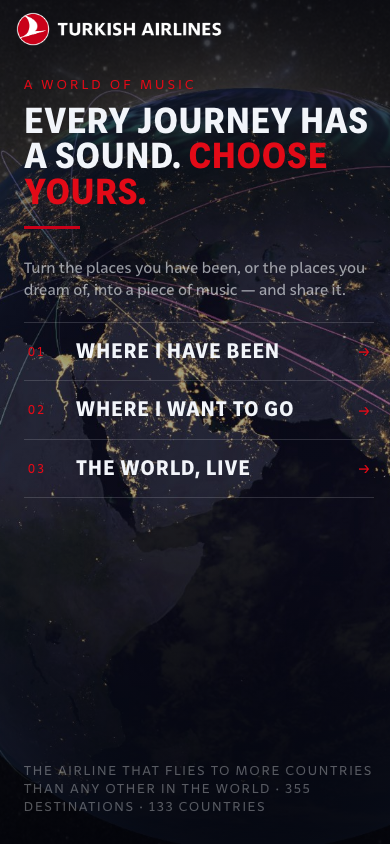
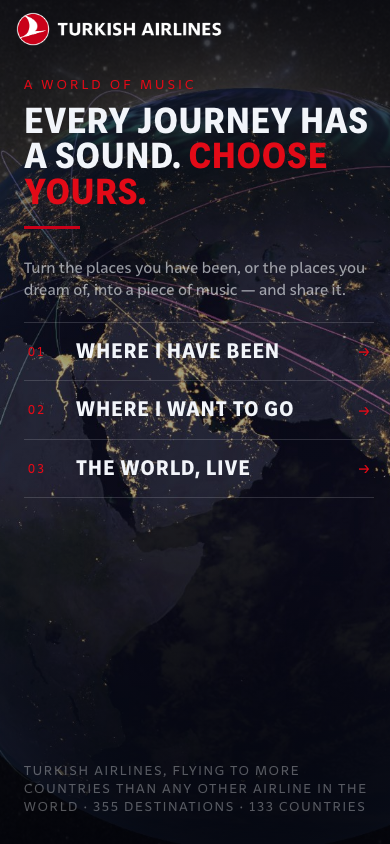
copy: 'Turkish Airlines, flying to more countries than any other airline in the world' in the footer line

Changed region(s): [[0.0615, 0.8934, 0.9538, 0.9858]]

diff --git a/docs/ui-preview/v4-boarding.html b/docs/ui-preview/v4-boarding.html
@@ -115,7 +115,7 @@ h1{margin:0;font-family:var(--display);font-weight:700;letter-spacing:.005em;tex
 <div class="modes"><button class="mode" data-go="origin"><div class="body"><span class="n">01</span><span style="flex:1"><b>Where I have been</b><i>Your journey, composed into one piece</i></span><span class="arr">→</span></div></button>
 <button class="mode" data-go="origin"><div class="body"><span class="n">02</span><span style="flex:1"><b>Where I want to go</b><i>Your wishlist, as the music of a trip yet to come</i></span><span class="arr">→</span></div></button>
 <button class="mode" data-go="origin"><div class="body"><span class="n">03</span><span style="flex:1"><b>The world, live</b><i>Every Turkish Airlines flight of the last 24 hours</i></span><span class="arr">→</span></div></button></div>
-<p class="foot">THE AIRLINE THAT FLIES TO MORE COUNTRIES THAN ANY OTHER IN THE WORLD · 355 DESTINATIONS · 133 COUNTRIES</p>
+<p class="foot">TURKISH AIRLINES, FLYING TO MORE COUNTRIES THAN ANY OTHER AIRLINE IN THE WORLD · 355 DESTINATIONS · 133 COUNTRIES</p>
 </section>
 <section id="s-origin" class="screen">
 <p class="eyebrow">STEP 1 OF 2</p><h1 style="font-size:clamp(26px,3.6vw,44px)">Where do you start from?</h1>

diff --git a/docs/ui-preview/v1-obsidian.html b/docs/ui-preview/v1-obsidian.html
@@ -108,7 +108,7 @@ h1{margin:0;font-family:var(--display);font-weight:700;letter-spacing:.005em;tex
 <div class="modes"><button class="mode" data-go="origin"><span class="n">01</span><b>Where I have been</b><i>Your journey, composed into one piece</i><em class="arr" style="font-style:normal">→</em></button>
 <button class="mode" data-go="origin"><span class="n">02</span><b>Where I want to go</b><i>Your wishlist, as the music of a trip yet to come</i><em class="arr" style="font-style:normal">→</em></button>
 <button class="mode" data-go="origin"><span class="n">03</span><b>The world, live</b><i>Every Turkish Airlines flight of the last 24 hours</i><em class="arr" style="font-style:normal">→</em></button></div>
-<p class="foot">THE AIRLINE THAT FLIES TO MORE COUNTRIES THAN ANY OTHER IN THE WORLD · 355 DESTINATIONS · 133 COUNTRIES</p>
+<p class="foot">TURKISH AIRLINES, FLYING TO MORE COUNTRIES THAN ANY OTHER AIRLINE IN THE WORLD · 355 DESTINATIONS · 133 COUNTRIES</p>
 </section>
 <section id="s-origin" class="screen">
 <p class="eyebrow">STEP 1 OF 2</p><h1 style="font-size:clamp(26px,3.6vw,44px)">Where do you start from?</h1>

diff --git a/docs/ui-preview/v2-voyage.html b/docs/ui-preview/v2-voyage.html
@@ -105,7 +105,7 @@ h1{margin:0;font-family:var(--display);font-weight:700;letter-spacing:.005em;tex
 <div class="modes"><button class="mode" data-go="origin"><span class="n">01</span><b>Where I have been</b><i>Your journey, composed into one piece</i><em class="arr" style="font-style:normal">→</em></button>
 <button class="mode" data-go="origin"><span class="n">02</span><b>Where I want to go</b><i>Your wishlist, as the music of a trip yet to come</i><em class="arr" style="font-style:normal">→</em></button>
 <button class="mode" data-go="origin"><span class="n">03</span><b>The world, live</b><i>Every Turkish Airlines flight of the last 24 hours</i><em class="arr" style="font-style:normal">→</em></button></div>
-<p class="foot">THE AIRLINE THAT FLIES TO MORE COUNTRIES THAN ANY OTHER IN THE WORLD · 355 DESTINATIONS · 133 COUNTRIES</p>
+<p class="foot">TURKISH AIRLINES, FLYING TO MORE COUNTRIES THAN ANY OTHER AIRLINE IN THE WORLD · 355 DESTINATIONS · 133 COUNTRIES</p>
 </section>
 <section id="s-origin" class="screen">
 <p class="eyebrow">STEP 1 OF 2</p><h1 style="font-size:clamp(26px,3.6vw,44px)">Where do you start from?</h1>

diff --git a/docs/ui-preview/v3-mission.html b/docs/ui-preview/v3-mission.html
@@ -103,7 +103,7 @@ kbd{font-family:var(--wide);border:1px solid var(--line);border-radius:4px;paddi
 <div class="modes"><button class="mode" data-go="origin"><span class="n">01</span><b>Where I have been</b><i>Your journey, composed into one piece</i><em class="arr" style="font-style:normal">→</em></button>
 <button class="mode" data-go="origin"><span class="n">02</span><b>Where I want to go</b><i>Your wishlist, as the music of a trip yet to come</i><em class="arr" style="font-style:normal">→</em></button>
 <button class="mode" data-go="origin"><span class="n">03</span><b>The world, live</b><i>Every Turkish Airlines flight of the last 24 hours</i><em class="arr" style="font-style:normal">→</em></button></div>
-<p class="foot">THE AIRLINE THAT FLIES TO MORE COUNTRIES THAN ANY OTHER IN THE WORLD · 355 DESTINATIONS · 133 COUNTRIES</p>
+<p class="foot">TURKISH AIRLINES, FLYING TO MORE COUNTRIES THAN ANY OTHER AIRLINE IN THE WORLD · 355 DESTINATIONS · 133 COUNTRIES</p>
 </section>
 <section id="s-origin" class="screen">
 <p class="eyebrow">STEP 1 OF 2</p><h1 style="font-size:clamp(26px,3.6vw,44px)">Where do you start from?</h1>

diff --git a/globe/src/personal/destinations.ts b/globe/src/personal/destinations.ts
@@ -51,7 +51,7 @@ export const hasPassengerService = (d: Destination): boolean => d.status === "ac
 export const NETWORK_DESTINATIONS = 355;
 export const NETWORK_COUNTRIES = 133;
 /** Turkish Airlines' own claim, kept next to the numbers it belongs to */
-export const NETWORK_CLAIM = "The airline that flies to more countries than any other in the world";
+export const NETWORK_CLAIM = "Turkish Airlines, flying to more countries than any other airline in the world";
 
 export const COUNTRY_COUNT = new Set(DESTINATIONS.map((d) => d.iso)).size;
 

diff --git a/docs/ui-preview/build.py b/docs/ui-preview/build.py
@@ -238,7 +238,7 @@ def build(v,fname,title,desc,src):
 {'<div class="hairline"></div>' if v=='v1' else ''}
 <p class="sub">Turn the places you have been, or the places you dream of, into a piece of music — and share it.</p>
 <div class="modes">{modes(v)}</div>
-<p class="foot">THE AIRLINE THAT FLIES TO MORE COUNTRIES THAN ANY OTHER IN THE WORLD · 355 DESTINATIONS · 133 COUNTRIES</p>
+<p class="foot">TURKISH AIRLINES, FLYING TO MORE COUNTRIES THAN ANY OTHER AIRLINE IN THE WORLD · 355 DESTINATIONS · 133 COUNTRIES</p>
 </section>
 <section id="s-origin" class="screen">
 <p class="eyebrow">STEP 1 OF 2</p><h1 style="font-size:clamp(26px,3.6vw,44px)">Where do you start from?</h1>
